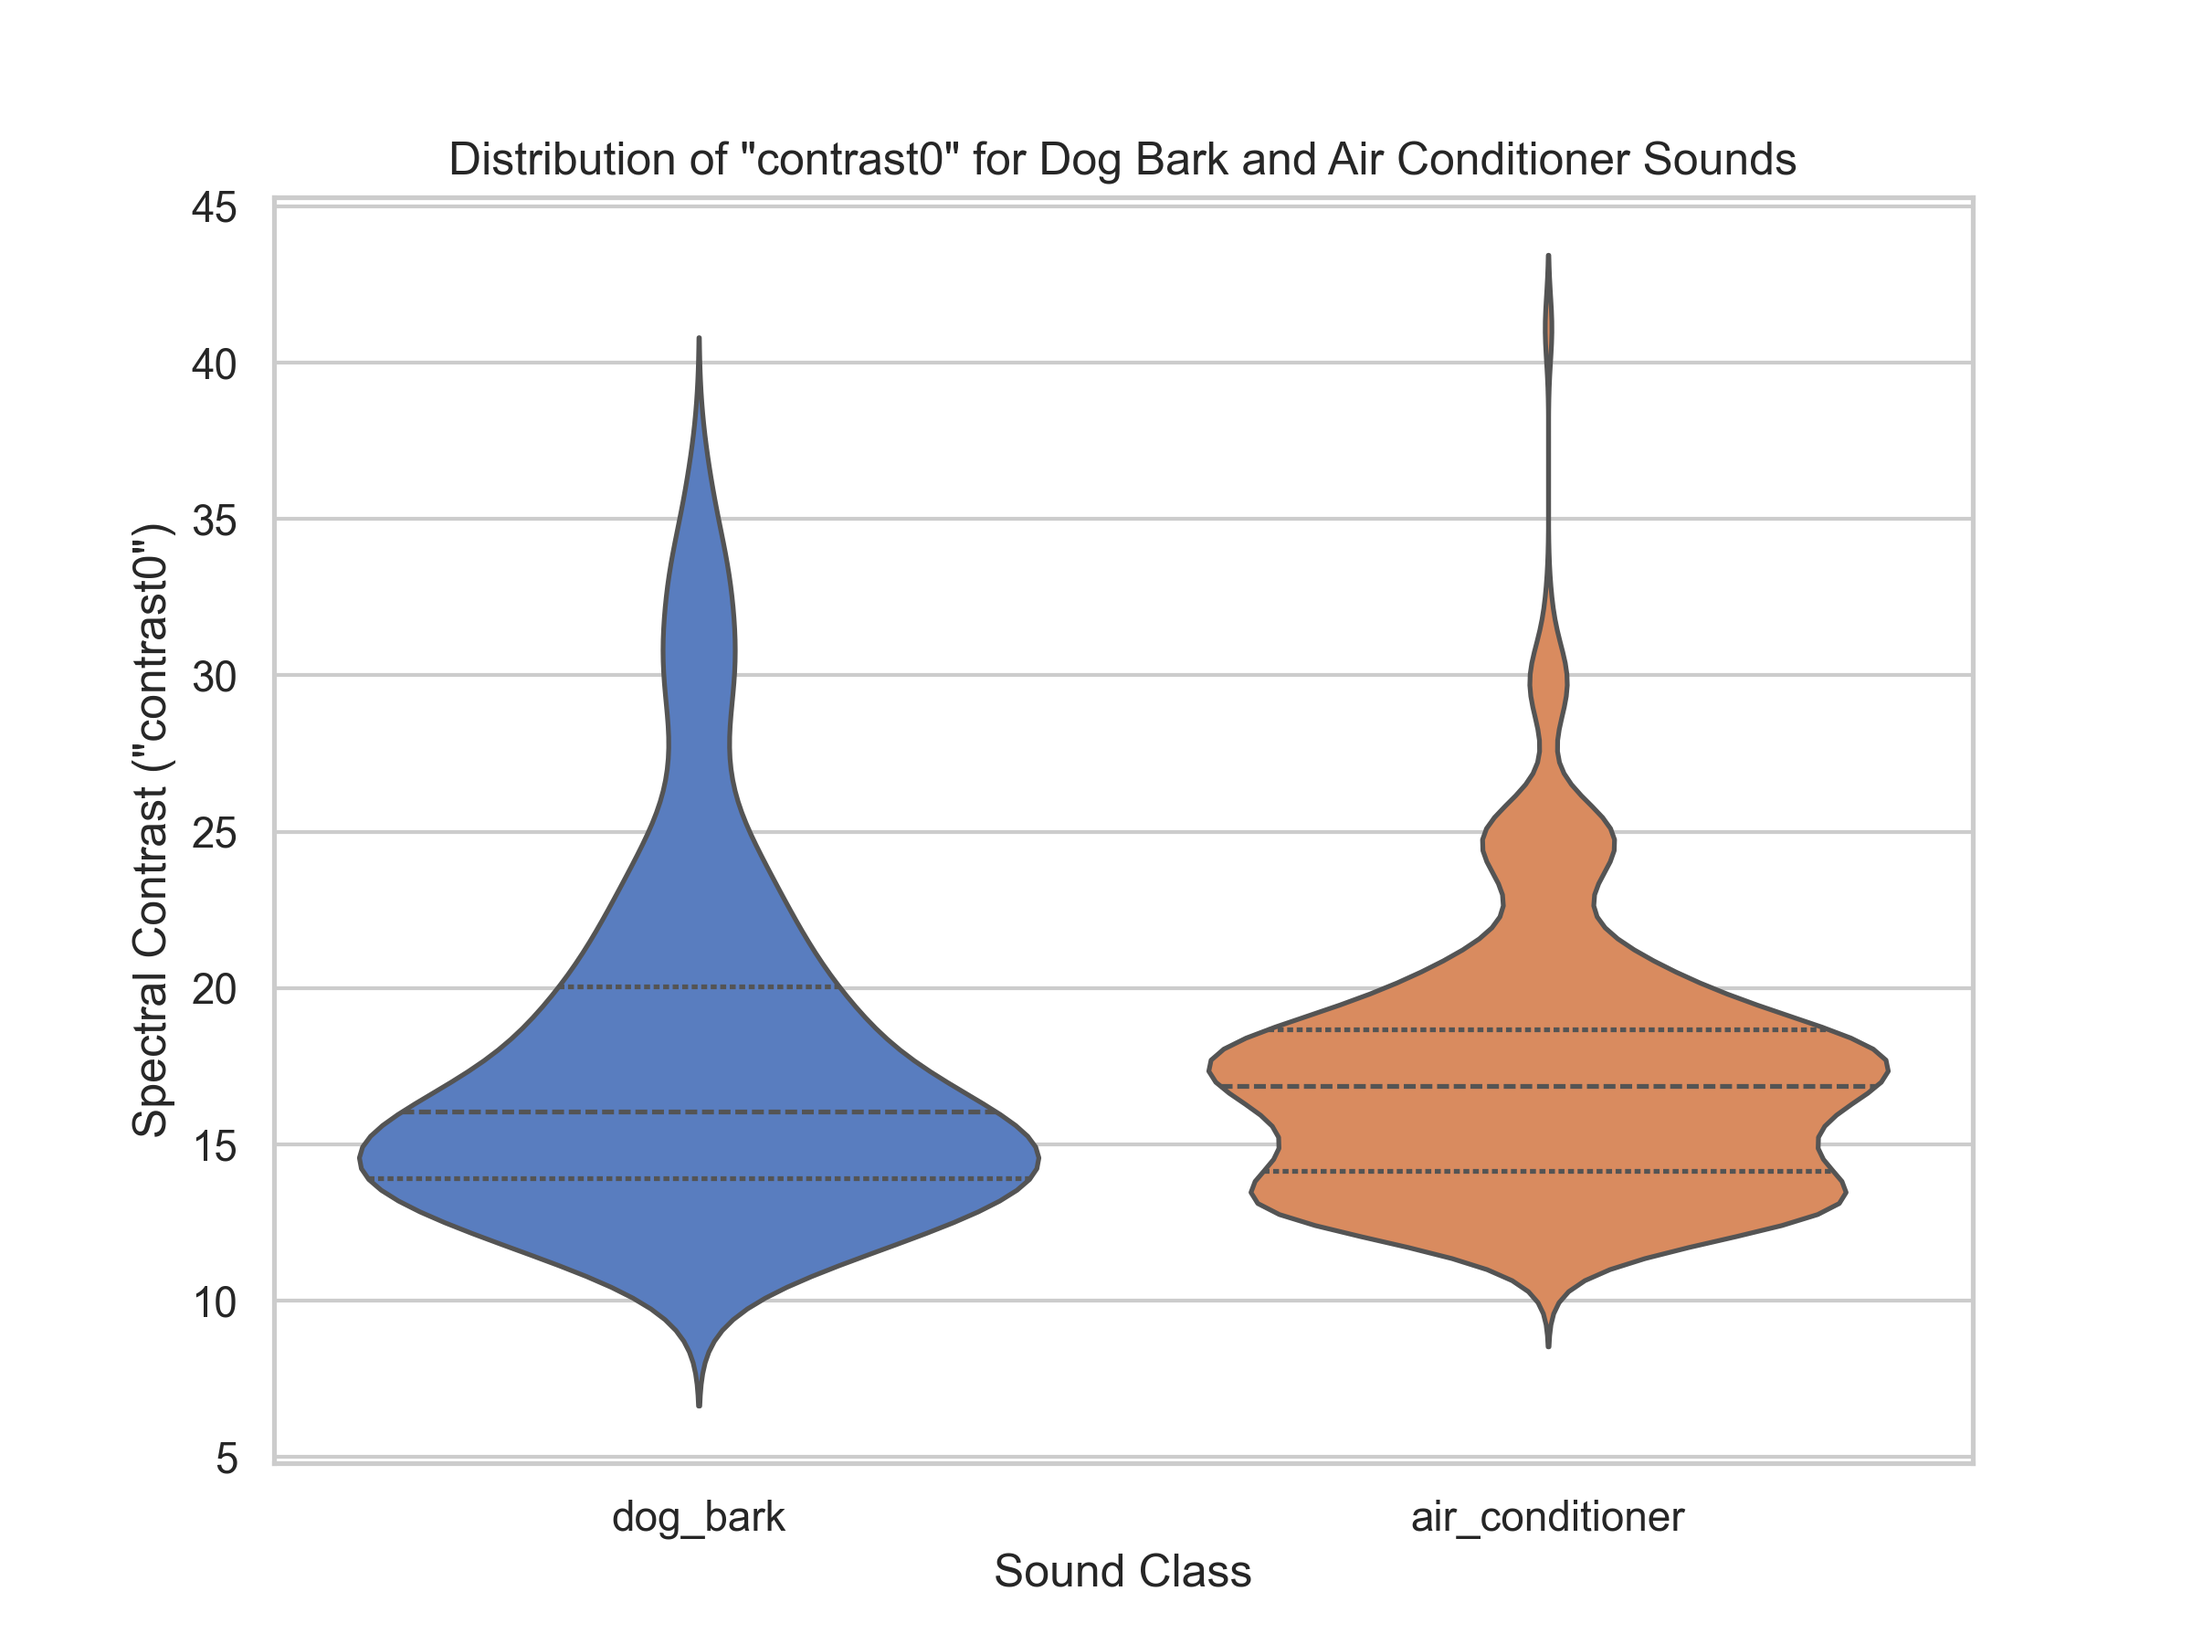
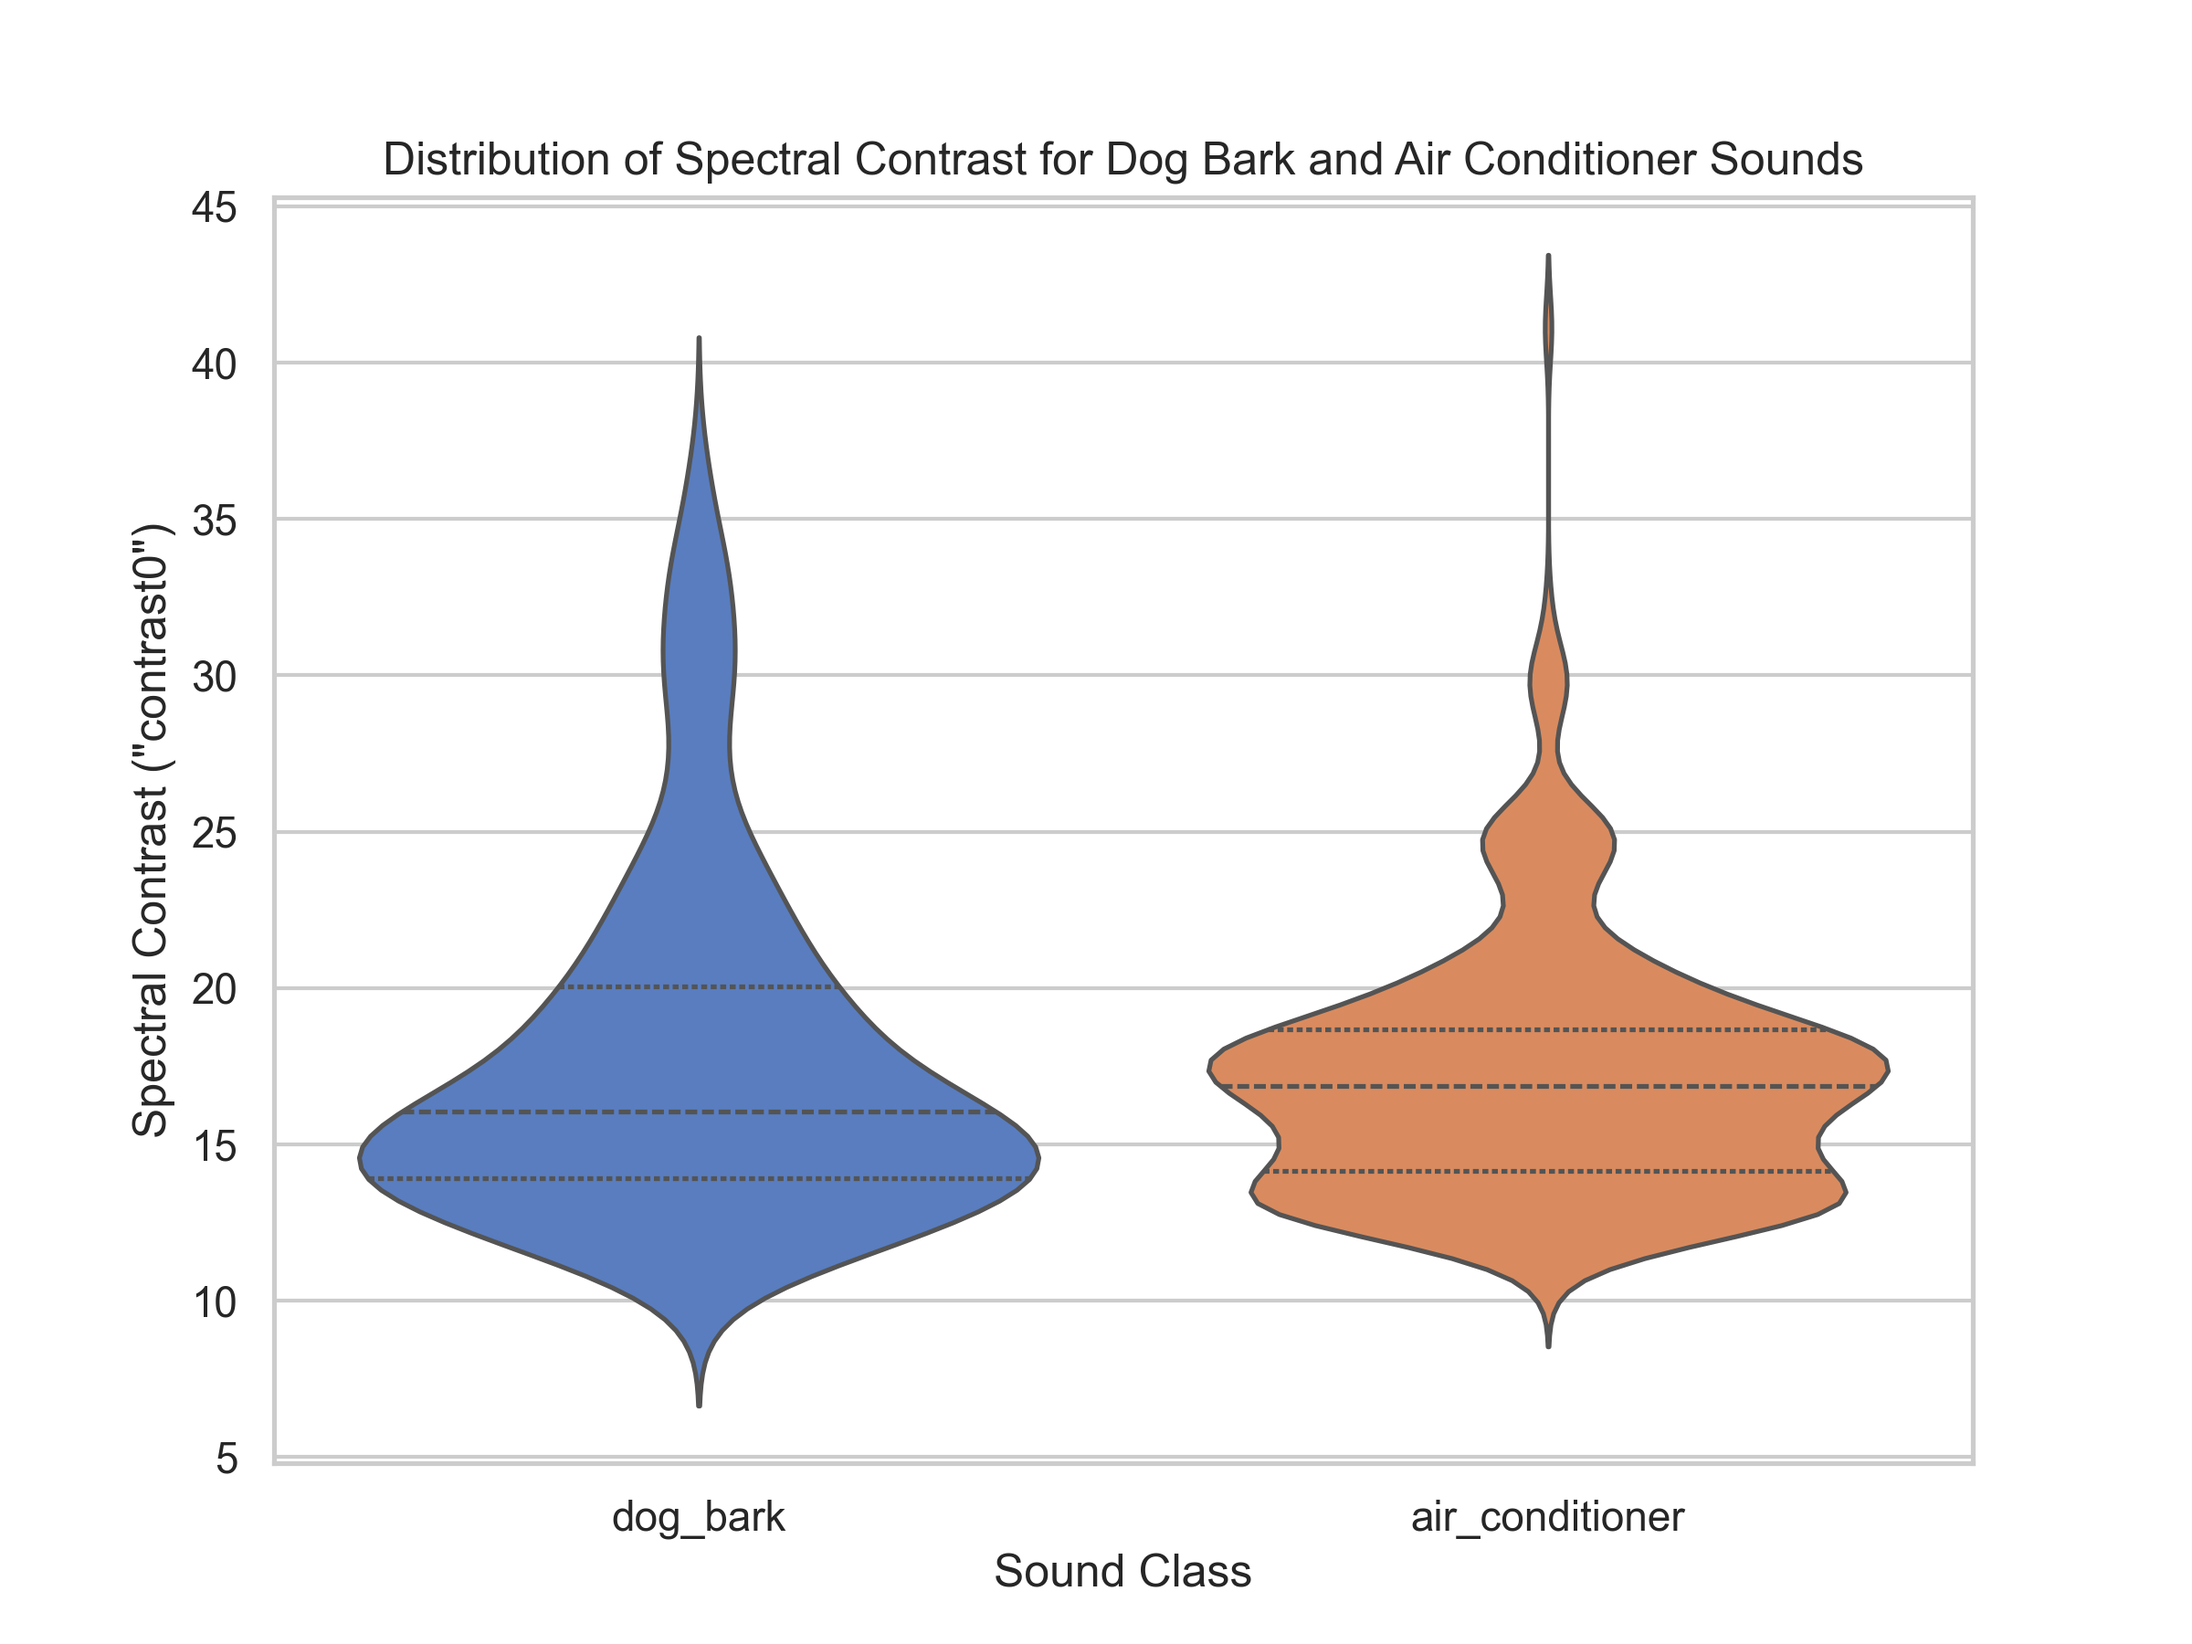
fix task2

Changed region(s): [[0.1875, 0.0622, 0.8438, 0.1244]]

diff --git a/task2.py b/task2.py
@@ -13,50 +13,33 @@ def task2():
     # Assuming the file is in the same directory as the script
     file_path = "urbansound8k_features_small.csv"
     
-    try:
-        # 1. Read the dataset into a DataFrame
-        df = pd.read_csv(file_path)
+    # 1. Read the dataset into a DataFrame
+    df = pd.read_csv(file_path)
 
-        # 2. Filter the DataFrame for the two classes of interest
-        classes_to_plot = ['dog_bark', 'air_conditioner']
-        df_filtered = df[df['class'].isin(classes_to_plot)]
+    # 2. Filter the DataFrame for the two classes of interest
+    classes_to_plot = ['dog_bark', 'air_conditioner']
+    df_filtered = df[df['class'].isin(classes_to_plot)]
+    
+    sns.set_theme(style="whitegrid")
+    plt.figure(figsize=(8, 6))
 
-        # Set up the plot style
-        sns.set_theme(style="whitegrid")
-        
-        # Create a figure and axes for the plot
-        plt.figure(figsize=(8, 6))
+    # 3. Create the violin plot
+    # Use a more descriptive label for the y-axis
+    sns.violinplot(
+        x='class', 
+        y='contrast0', 
+        data=df_filtered, 
+        palette="muted", 
+        inner="quartile"
+    )
+    
+    # Add labels and a title for better readability
+    plt.title('Distribution of Spectral Contrast for Dog Bark and Air Conditioner Sounds')
+    plt.xlabel('Sound Class')
+    plt.ylabel('Spectral Contrast ("contrast0")')
 
-        # 3. Create the violin plot
-        # Use a more descriptive label for the y-axis
-        sns.violinplot(
-            x='class', 
-            y='contrast0', 
-            data=df_filtered, 
-            palette="muted", 
-            inner="quartile"
-        )
-        
-        # Add labels and a title for better readability
-        plt.title('Distribution of "contrast0" for Dog Bark and Air Conditioner Sounds')
-        plt.xlabel('Sound Class')
-        plt.ylabel('Spectral Contrast ("contrast0")')
-
-        # 4. Save the plot to a PNG file
-        output_file_name = "task2_violin.png"
-        plt.savefig(output_file_name, dpi=300)
-        
-        print(f"Violin plot successfully saved to {output_file_name}")
-
-    except FileNotFoundError:
-        print(f"Error: The file '{file_path}' was not found.")
-        print("Please ensure the CSV file is in the same directory as this script.")
-    except KeyError:
-        print("Error: The required columns ('class' or 'contrast0') were not found in the dataset.")
-        print("Please check the column names in your CSV file.")
-    except Exception as e:
-        print(f"An unexpected error occurred: {e}")
-
-# This part ensures the function can be run directly as specified
-if __name__ == '__main__':
-    task2()
+    # 4. Save the plot to a PNG file
+    output_file_name = "task2_violin.png"
+    plt.savefig(output_file_name, dpi=300)
+    
+    print(f"Violin plot successfully saved to {output_file_name}")
